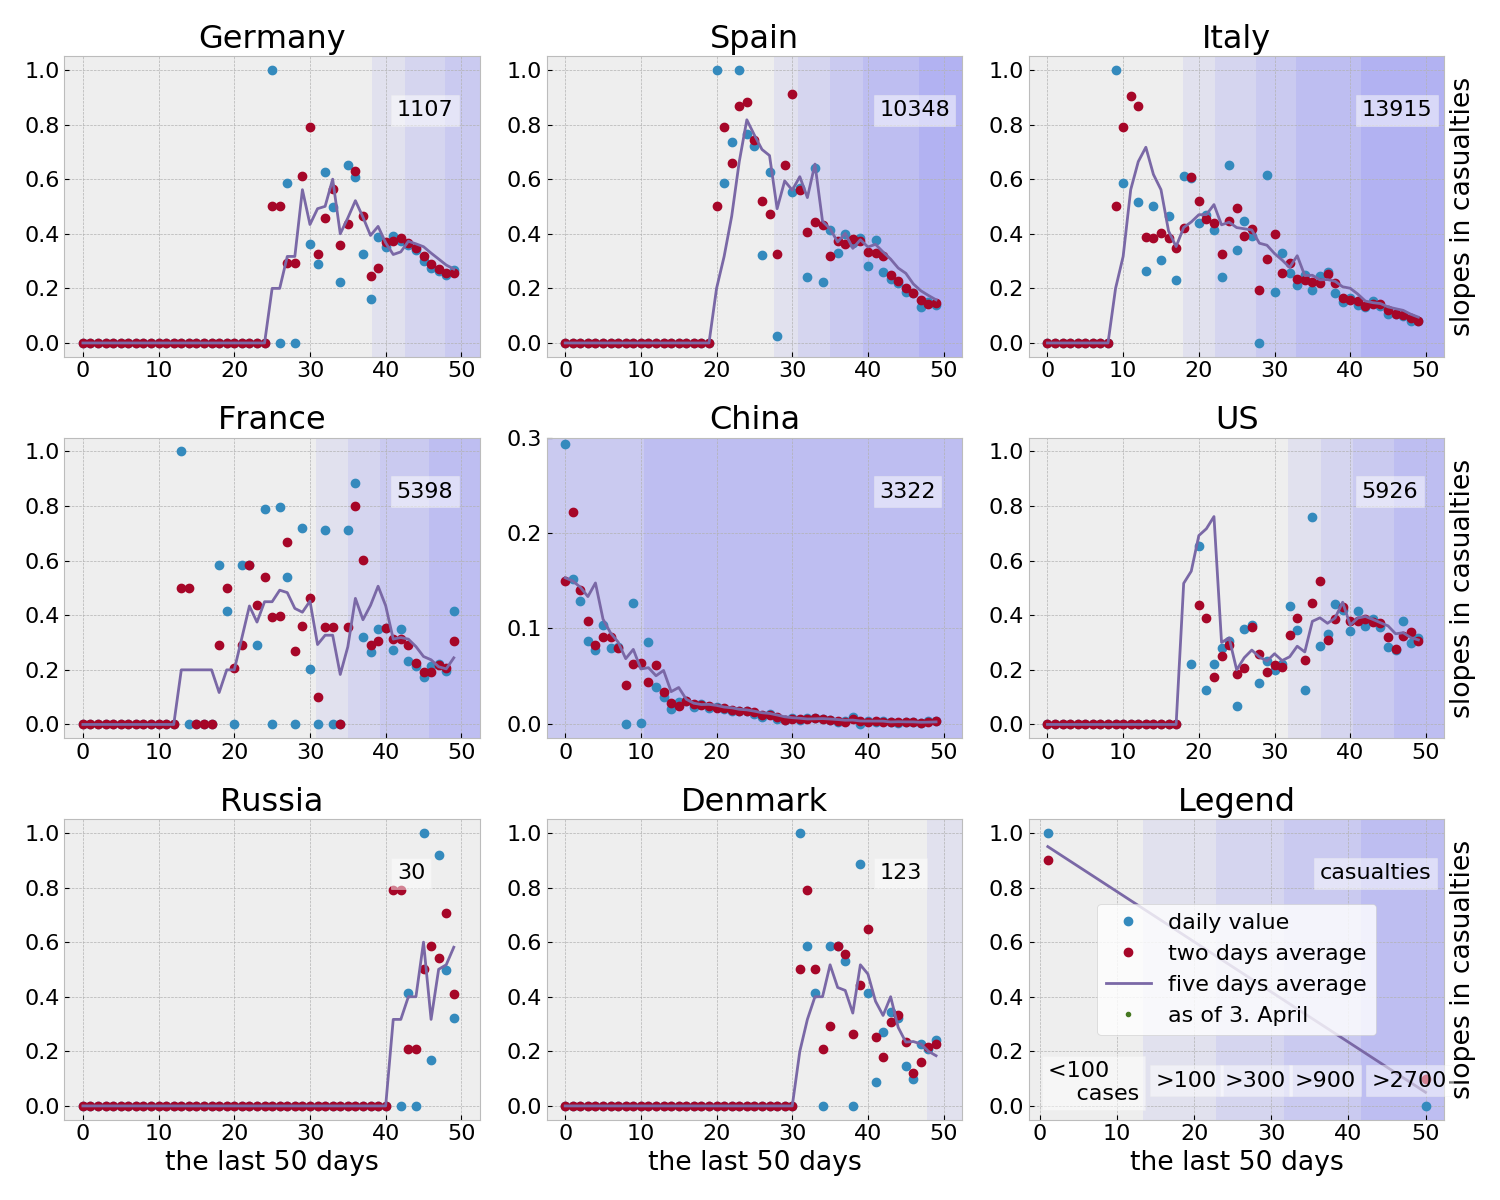
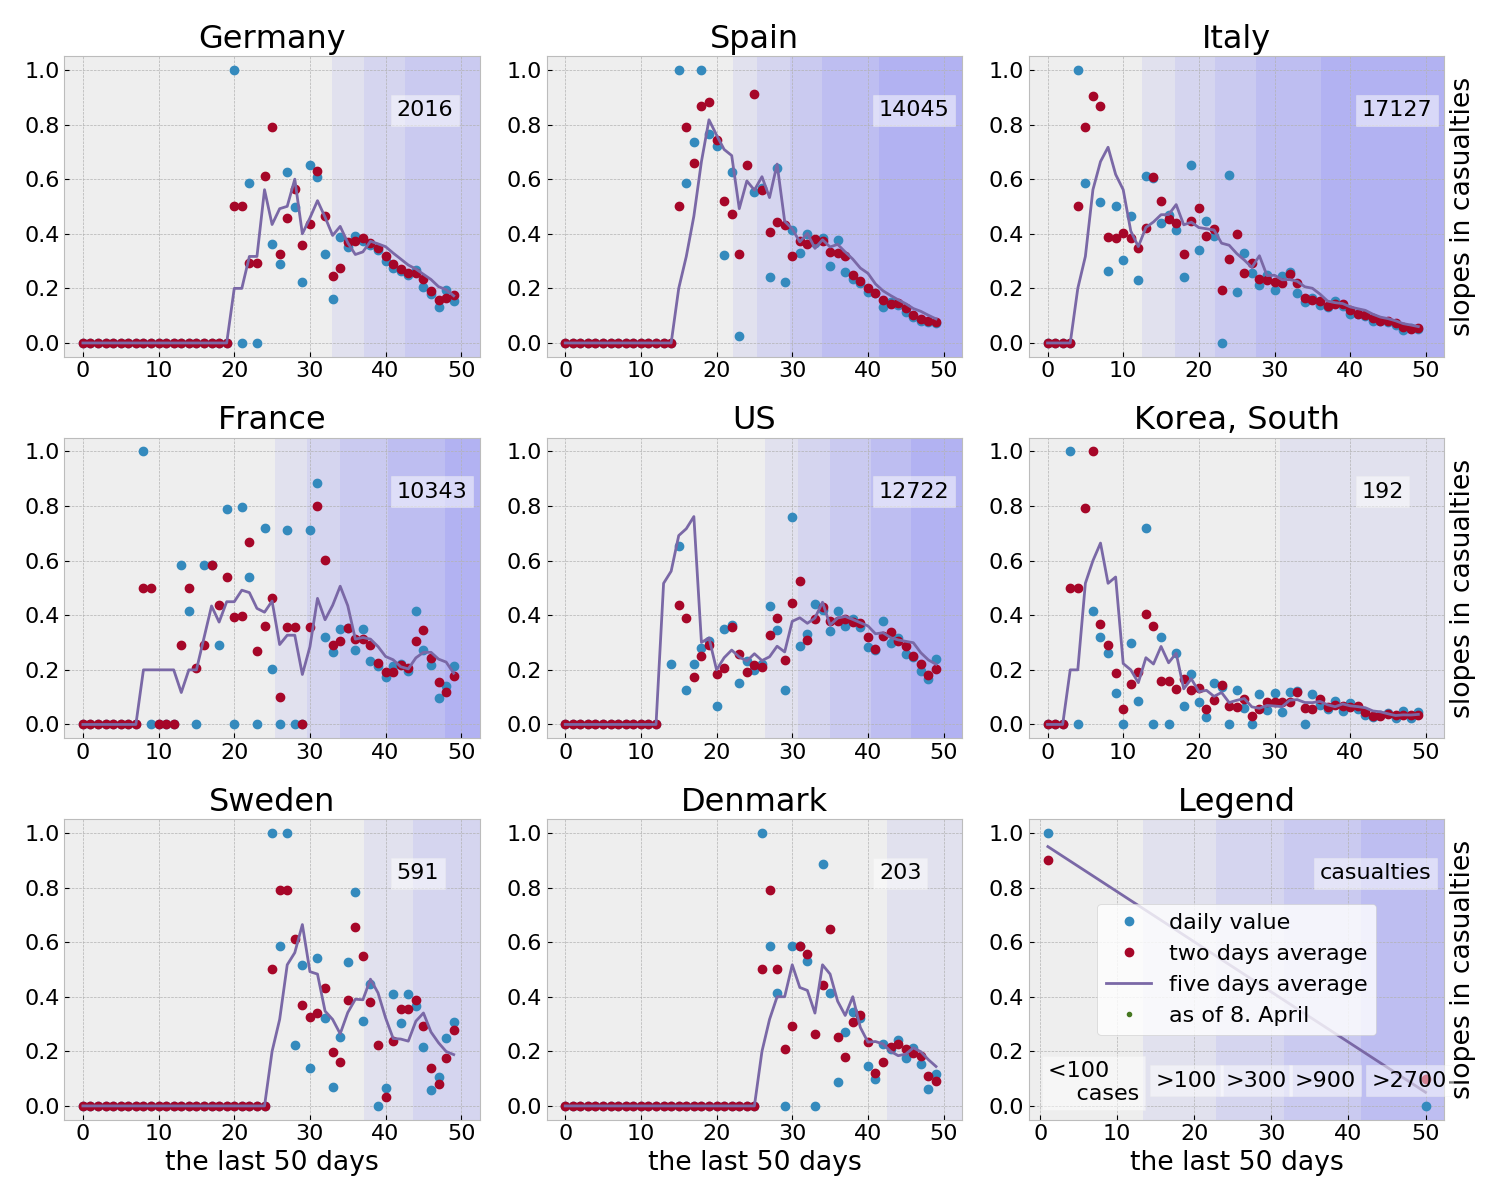
upd course info

diff --git a/content/courses/ovgu-mathe-informatik/_index.md b/content/courses/ovgu-mathe-informatik/_index.md
@@ -6,8 +6,8 @@ weight: 1
 
 # Page metadata.
 title: Mathematik 2 für Informatik
-date: "2018-09-09T00:00:00Z"
-lastmod: "2018-09-09T00:00:00Z"
+date: "2020-04-03T00:00:00Z"
+lastmod: "2020-04-08T00:00:00Z"
 draft: false  # Is this a draft? true/false
 toc: true  # Show table of contents? true/false
 type: docs  # Do not modify.
@@ -32,19 +32,28 @@ Alle Links:
 
  * [LSF](https://lsf.ovgu.de/qislsf/rds?state=verpublish&status=init&vmfile=no&publishid=154905&moduleCall=webInfo&publishConfFile=webInfo&publishSubDir=veranstaltung)
  * [Übungsblätter](https://drive.google.com/open?id=1S6Qi0eOcYlOz30TlTa08f1ty9M72xfJf)
+ * [Moodle](https://elearning.ovgu.de/course/view.php?id=7691)
  * :blue_book: [Vorlesungsskript](files/Henk_Skript_Mathe_fuer_Informatiker.pdf)
- * Paperhive Channel
+ * [Paperhive Channel](https://paperhive.org/documents/items/Q5_T1IK-vd5c?a=p:61) -- den Einladungslink gibt's im Moodle.
+ * [Mattermost Channel](http://mm.cs.ovgu.de/test-team/channels/mathe-info-2)
+ * [Video Chat Room](https://meet.ovgu.de/MatheInfoZwei)
+ * [Anonymer Briefkasten](https://www2.math.uni-magdeburg.de/owncloud/index.php/s/w8j8Xaxo2dfzMIZ)
 
-## Vorlesungsmodus
+## Aktuelles
 
- * Für jede Woche werden 2 Einheiten Vorlesung als Videos zur Verf&uuml;gung
-   gestellt.
- * Begleitend dazu sollen die Kapitel des Vorlesungsskriptes gelesen werden und
-   im *Paperhive* Channel besprochen werden. Das hei&szlig;t, die Student'innen
-   können Fragen stellen und diese werden dann gegenseitig oder eben vom
-   Lehrenden beantwortet.
- * Zus&auml;tzlich gibt es die M&ouml;glichkeit zur Sprechstunde &uuml;ber als
-   Videokonferenz.
+Wird dann hier verk&uuml;ndet.
+
+## Vorlesungen
+
+ * Mitwochs und Freitags um 09:00 werden neue Kapitel der Vorlesung hier
+   hochgeladen oder verlinkt.  Das beinhaltet kurze Audio und Video Dateien
+   sowie Anweisungen zum selbstst&auml;ndigen Lesen des Skriptes.
+ * Begleitend dazu sollen n&auml;mlich die Kapitel des Vorlesungsskriptes
+   gelesen werden und im *Paperhive* Channel[^1] besprochen werden. Das
+   hei&szlig;t, die Student'innen können Fragen stellen und diese werden dann
+   gegenseitig oder eben vom Lehrenden beantwortet.
+ * Freitags um 14:30 gibt es eine live Zusammenfassung und M&ouml;glichkeit zur
+   Diskussion im Video-Chat.
 
 ## Übungen
 
@@ -61,4 +70,8 @@ Organisatorische Hinweise:
  * In der [google
    cloud](https://drive.google.com/open?id=1S6Qi0eOcYlOz30TlTa08f1ty9M72xfJf)
    finden Sie neben den Aufgaben auch Musterlösungen und Hinweise.
-     
+
+[^1]: F&uuml;r Paperhive ist eine Anmeldung erforderlich und um das Skript zu
+  sehen und zu kommentieren, muss man dem Einladungslink folgen. Dieser wird im
+  Moodle hinterlegt.
+

diff --git a/content/post/covid-19-trends/index.md b/content/post/covid-19-trends/index.md
@@ -141,7 +141,7 @@ We plot the logarithmic slopes for several countries for the last 50 days.
 See the [pdf file](slopes-dsifc.pdf) for more countries and a better resolution
 of the plots.
 
-{{< figure src="slopes-dsifc.png" title="The slopes of a logarithmic plot of the accumulated casualties for a number of countries. The colored background marks the days where the number of deaths was below 100, 300, 900, 2700, 8100, 24300, ..., respectively. The upper 6 countries are always shown. The lower 2 countries change occasionally. See the [pdf](slopes-dsifc.pdf) for all countries." lightbox="true" >}}
+{{< figure src="slopes-dsifc.png" title="The slopes of a logarithmic plot of the accumulated casualties for a number of countries. The colored background marks the days where the number of deaths was below 100, 300, 900, 2700, 8100, 24300, ..., respectively. The first 5 countries are always shown. The other 3 countries change occasionally. See the [pdf](slopes-dsifc.pdf) for all countries." lightbox="true" >}}
 
 ## Explanations of the Data Representation
 
@@ -165,9 +165,8 @@ As of today, one may say that:
    The rate is still high though. However if this decrease goes on, Spain might
    not overtake Italy.
  * A comparison of *France* :fr: and *Spain* shows the effects of low growth
-   rates. In the last days, the rates were similar. And although the virus seems
-   to have hit France before it hit Spain, the total numbers in France are
-   smaller by a factor of 3. 
+   rates. Although the virus seems to have hit France before it hit Spain, the
+   total numbers in France are smaller. 
  * In *Germany* :de: the rates seem to be decreasing but are still high. However
    since the decrease started earlier than for Spain, France, or Italy, there is
    reason to assume that Germany will suffer less from the virus (provided that
